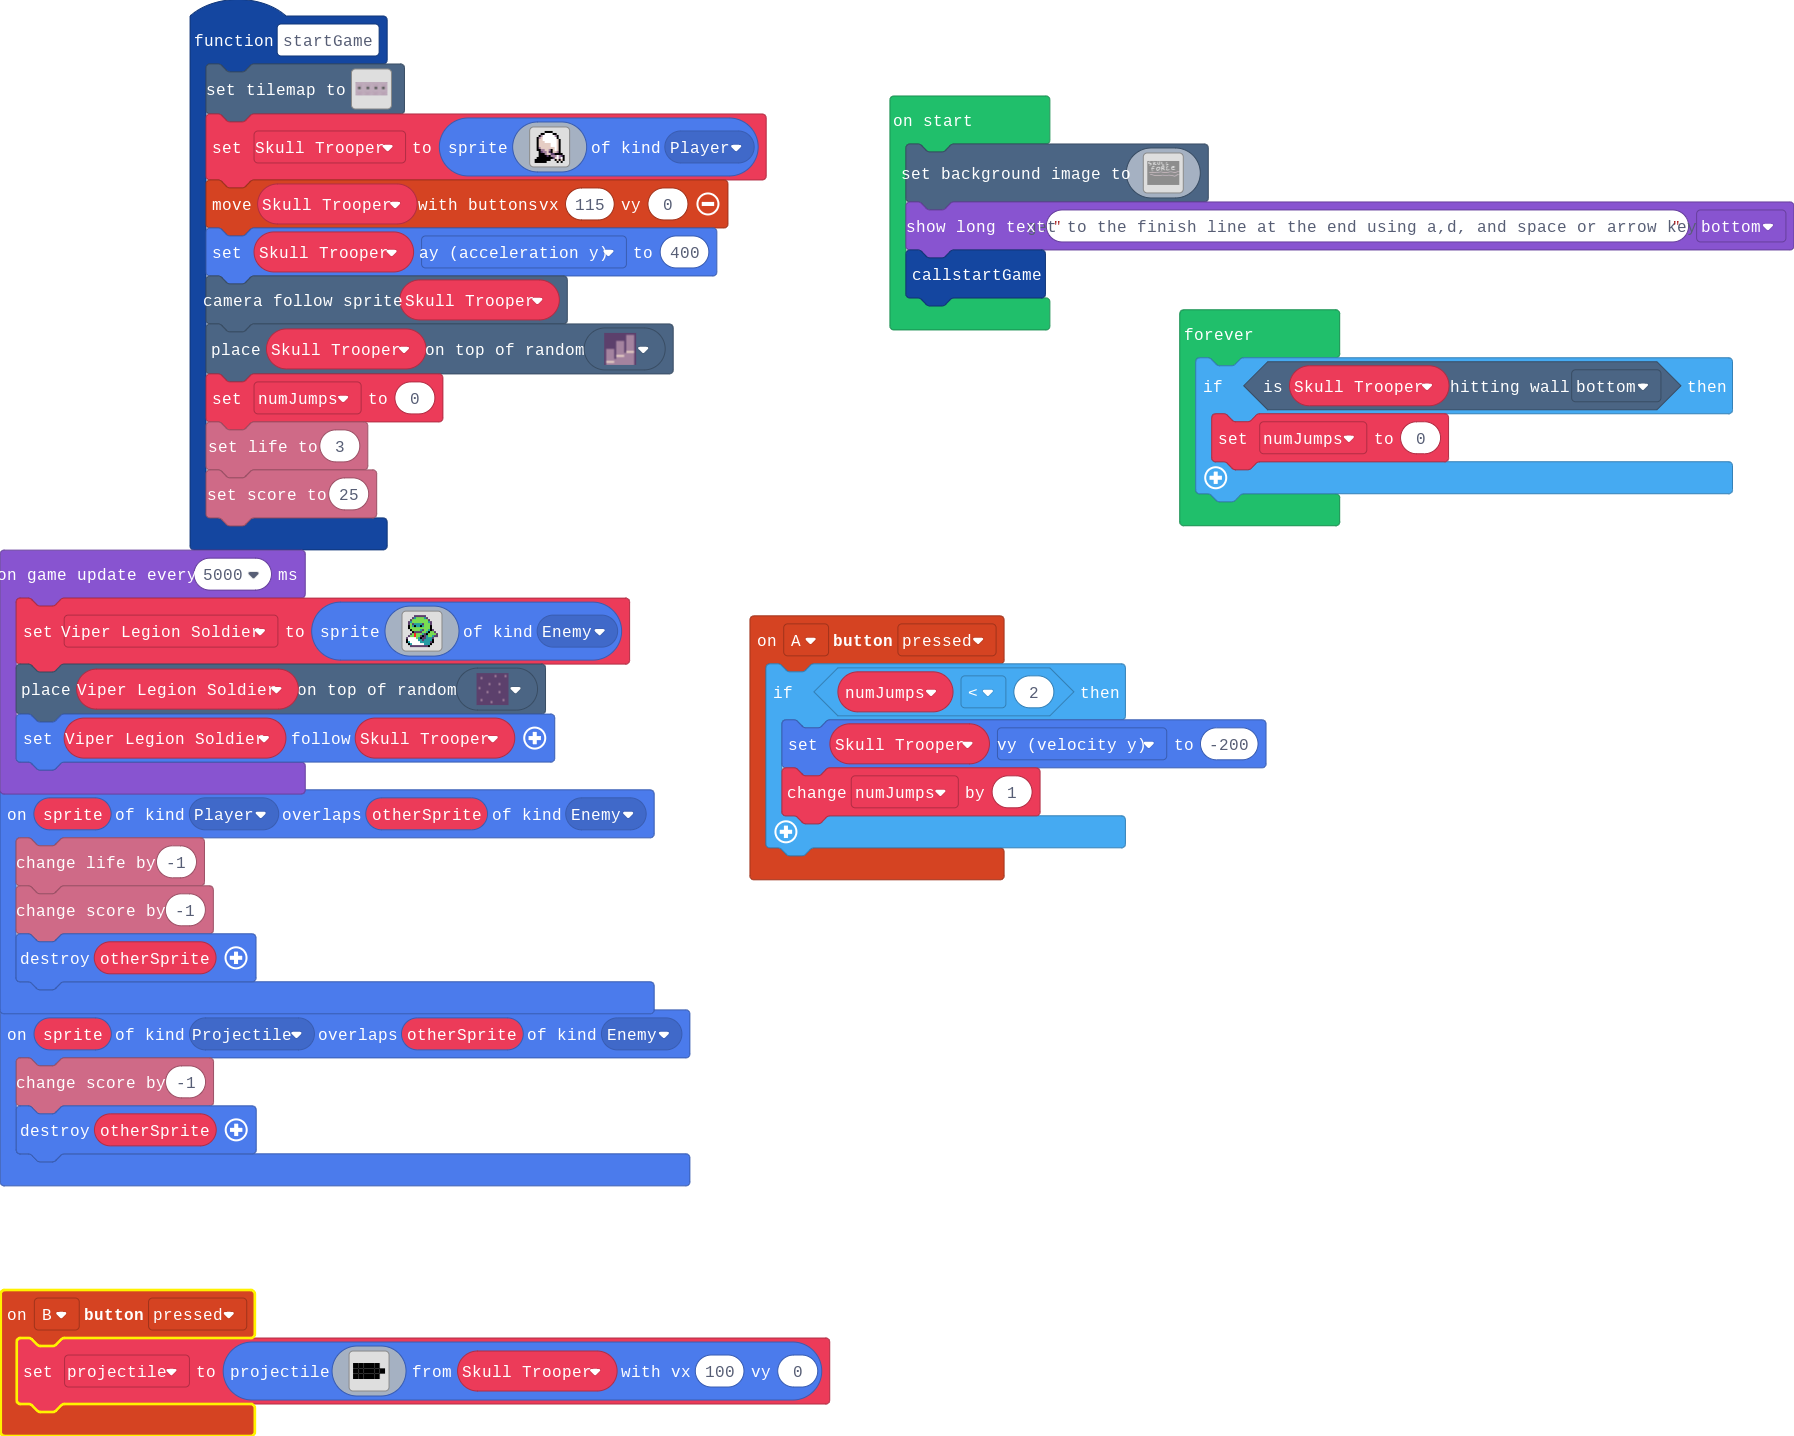
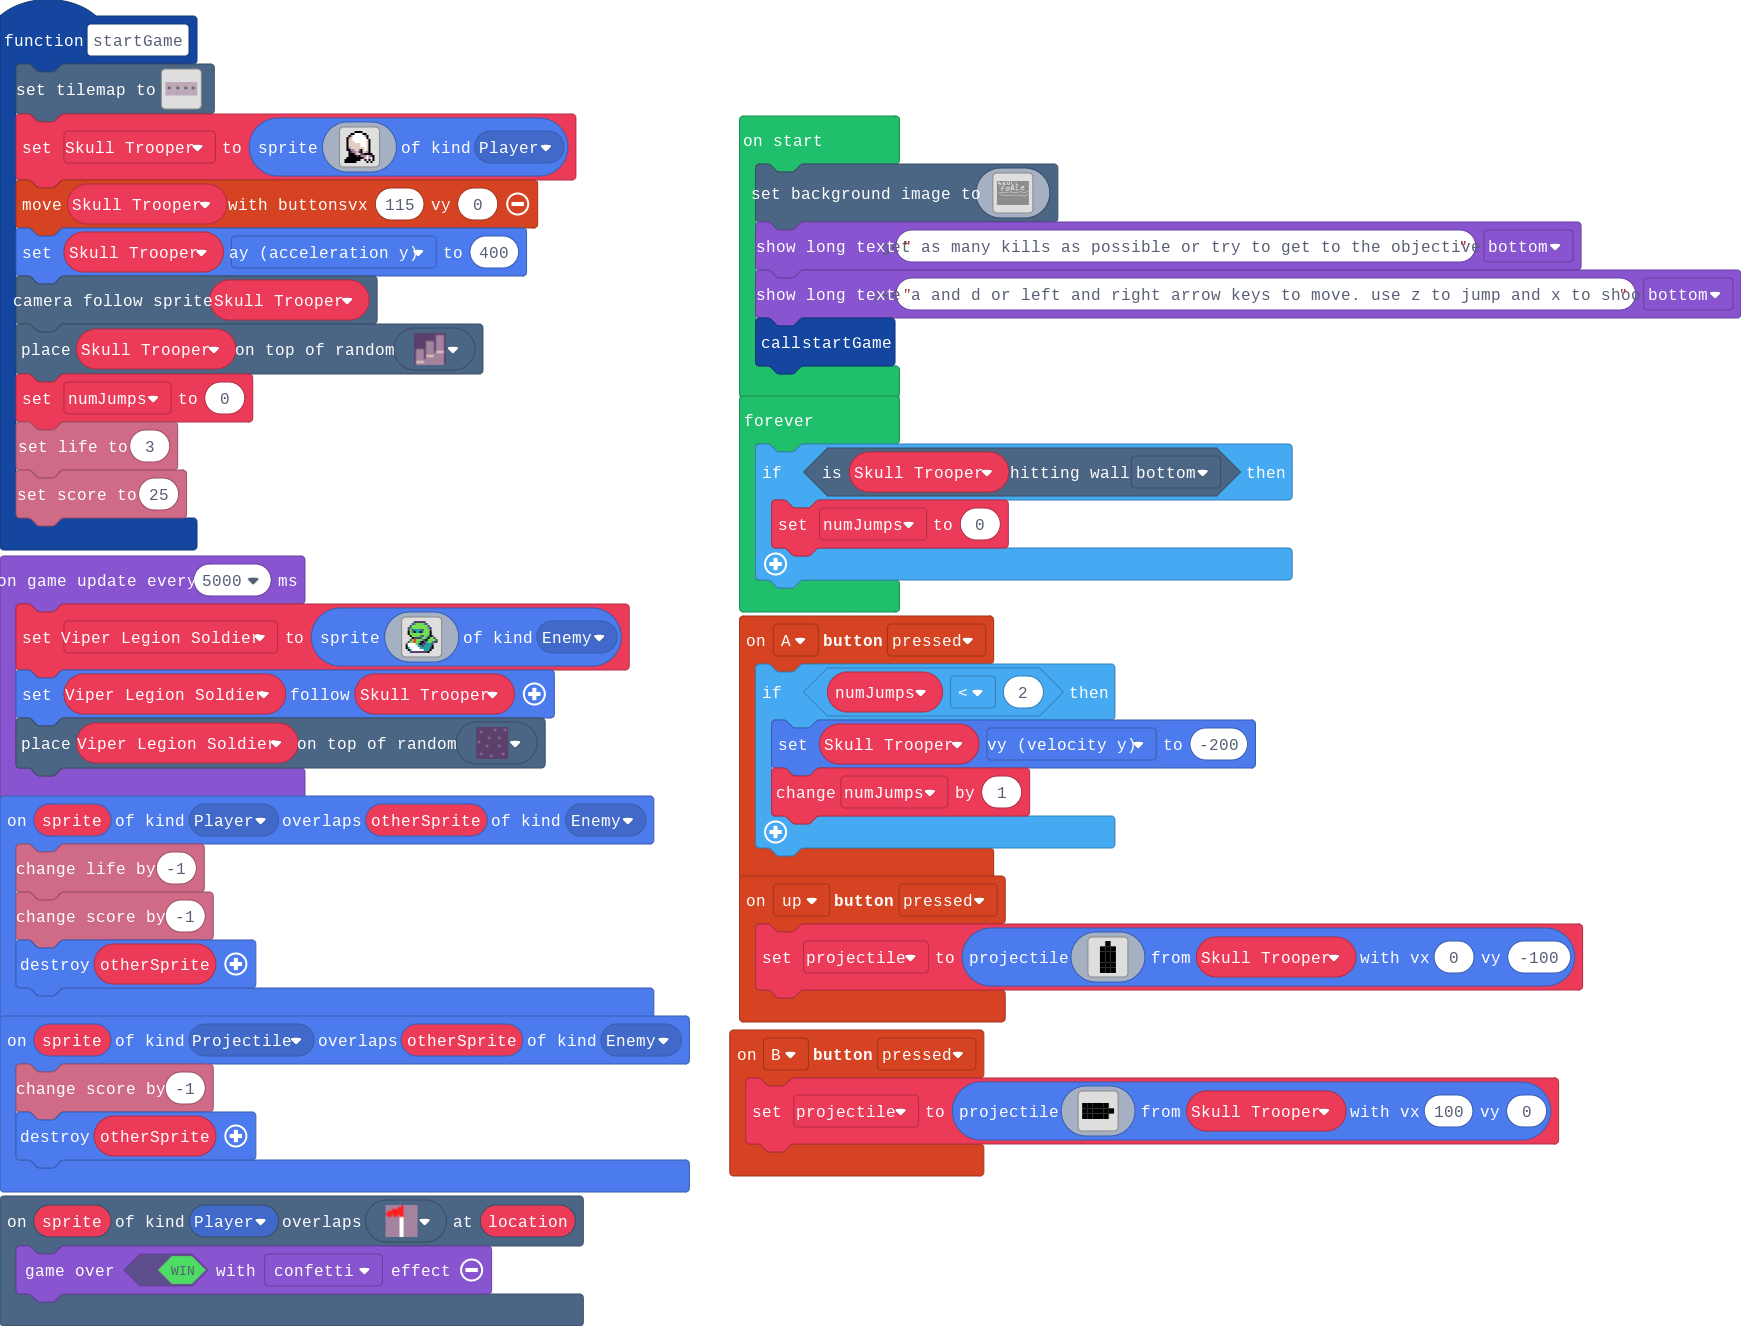
Update main.blocks, main.ts

diff --git a/main.ts b/main.ts
@@ -113,10 +113,51 @@ f f f 1 f f f f f f f f 1 f f f
 f f f f f f f f f f f f f f f f 
 f f f f f f f f f f f f f f f f 
 `
+    //% blockIdentity=images._tile
+    export const tile8 = img`
+. . . . . . . 2 2 . . . . . . . 
+. . . . . 2 2 2 2 . . . . . . . 
+. . . . 2 2 2 2 2 . . . . . . . 
+. . 2 2 2 2 2 2 2 . . . . . . . 
+. 2 2 2 2 2 2 2 2 . . . . . . . 
+2 2 . . 2 . . 1 1 . . . . . . . 
+. . . . . . . 1 1 . . . . . . . 
+. . . . . . . 1 1 . . . . . . . 
+. . . . . . . 1 1 . . . . . . . 
+. . . . . . . 1 1 . . . . . . . 
+. . . . . . . 1 1 . . . . . . . 
+. . . . . . . 1 1 . . . . . . . 
+. . . . . . . 1 1 . . . . . . . 
+. . . . . . . 1 1 . . . . . . . 
+. . . . . . . 1 1 . . . . . . . 
+. . . . . . . 1 1 . . . . . . . 
+`
+    //% blockIdentity=images._tile
+    export const tile9 = img`
+b b b b b b b b 2 b b b b b b b 
+b b b b b b 2 2 2 b b b b b b b 
+b b b 2 2 2 2 2 2 b b b b b b b 
+b 2 2 2 2 2 2 2 2 b b b b b b b 
+2 2 2 2 2 2 2 2 2 b b b b b b b 
+b 2 2 b 2 2 b 2 2 b b b b b b b 
+b b b b b b b 1 1 b b b b b b b 
+b b b b b b b 1 1 b b b b b b b 
+b b b b b b b 1 1 b b b b b b b 
+b b b b b b b 1 1 b b b b b b b 
+b b b b b b b 1 1 b b b b b b b 
+b b b b b b b 1 1 b b b b b b b 
+b b b b b b b 1 1 b b b b b b b 
+b b b b b b b 1 1 b b b b b b b 
+b b b b b b b 1 1 b b b b b b b 
+b b b b b b b 1 1 b b b b b b b 
+`
 }
+scene.onOverlapTile(SpriteKind.Player, myTiles.tile9, function (sprite, location) {
+    game.over(true, effects.confetti)
+})
 function startGame () {
     tiles.setTilemap(tiles.createTilemap(
[2 lines of base64/hex data omitted]
             img`
 2 2 2 2 2 2 2 2 2 2 2 2 2 2 2 2 2 2 2 2 2 2 2 2 2 2 2 2 2 2 2 2 2 2 2 2 2 2 2 2 2 2 2 2 2 2 2 2 2 2 2 2 2 2 2 2 2 2 2 2 
 2 . . . . . . . . . . . . . . . . . . . . . . . . . . . . . . . . . . . . . . . . . . . . . . . . . . . . . . . . . . 2 
@@ -144,7 +185,7 @@ function startGame () {
 2 . . . . . . . . . . . . . . . . . . . . . . . . . . . . . . . . . . . . . . . . . . . . . . . . . . . . . . . . . . 2 
 2 2 2 2 2 2 2 2 2 2 2 2 2 2 2 2 2 2 2 2 2 2 2 2 2 2 2 2 2 2 2 2 2 2 2 2 2 2 2 2 2 2 2 2 2 2 2 2 2 2 2 2 2 2 2 2 2 2 2 2 
 `,
-            [myTiles.tile0,sprites.castle.tilePath1,sprites.castle.tilePath5,sprites.castle.tilePath2,sprites.castle.tilePath7,sprites.castle.tilePath3,sprites.castle.tilePath4,sprites.castle.tilePath6,sprites.builtin.forestTiles0,sprites.castle.tileGrass1,sprites.castle.tileGrass2,sprites.castle.tileDarkGrass2,sprites.castle.tileDarkGrass3,sprites.castle.tileDarkGrass1,sprites.builtin.forestTiles5,sprites.builtin.forestTiles2,sprites.builtin.forestTiles28,sprites.builtin.forestTiles20,sprites.castle.tileGrass3,myTiles.tile2,sprites.dungeon.stairLarge,myTiles.tile3,sprites.dungeon.floorDark2,sprites.dungeon.floorDark0,myTiles.tile5,myTiles.tile6,myTiles.tile7,sprites.dungeon.darkGroundCenter],
+            [myTiles.tile0,sprites.castle.tilePath1,sprites.castle.tilePath5,sprites.castle.tilePath2,sprites.castle.tilePath7,sprites.castle.tilePath3,sprites.castle.tilePath4,sprites.castle.tilePath6,sprites.builtin.forestTiles0,sprites.castle.tileGrass1,sprites.castle.tileGrass2,sprites.castle.tileDarkGrass2,sprites.castle.tileDarkGrass3,sprites.castle.tileDarkGrass1,sprites.builtin.forestTiles5,sprites.builtin.forestTiles2,sprites.builtin.forestTiles28,sprites.builtin.forestTiles20,sprites.castle.tileGrass3,myTiles.tile2,sprites.dungeon.stairLarge,myTiles.tile3,sprites.dungeon.floorDark2,sprites.dungeon.floorDark0,myTiles.tile5,myTiles.tile6,myTiles.tile7,sprites.dungeon.darkGroundCenter,myTiles.tile8,myTiles.tile9],
             TileScale.Sixteen
         ))
     Skull_Trooper = sprites.create(img`
@@ -194,6 +235,16 @@ sprites.onOverlap(SpriteKind.Player, SpriteKind.Enemy, function (sprite, otherSp
     info.changeLifeBy(-1)
     info.changeScoreBy(-1)
     otherSprite.destroy()
+})
+controller.up.onEvent(ControllerButtonEvent.Pressed, function () {
+    projectile = sprites.createProjectileFromSprite(img`
+. f . 
+f f f 
+f f f 
+f f f 
+f f f 
+f f f 
+`, Skull_Trooper, 0, -100)
 })
 let Viper_Legion_Soldier: Sprite = null
 let projectile: Sprite = null
@@ -321,7 +372,8 @@ f f f f f f f f f f f f f f f f f f f f f f f f f f f f f f f f f f f f f f f f 
 f f f f f f f f f f f f f f f f f f f f f f f f f f f f f f f f f f f f f f f f f f f f f f f f f f f f f f f f f f f f f f f f f f f f f f f f f f f f f f f f f f f f f f f f f f f f f f f f f f f f f f f f f f f f f f f f f f f f f f f f f f f f f f f f f f f f f f f f f f f f f f f f f f f f f f f f f f f f f f f f 
 f f f f f f f f f f f f f f f f f f f f f f f f f f f f f f f f f f f f f f f f f f f f f f f f f f f f f f f f f f f f f f f f f f f f f f f f f f f f f f f f f f f f f f f f f f f f f f f f f f f f f f f f f f f f f f f f f f f f f f f f f f f f f f f f f f f f f f f f f f f f f f f f f f f f f f f f f f f f f f f f 
 `)
-game.showLongText("get to the finish line at the end using a,d, and space or arrow keys", DialogLayout.Bottom)
+game.showLongText("get as many kills as possible or try to get to the objective.", DialogLayout.Bottom)
+game.showLongText("use a and d or left and right arrow keys to move. use z to jump and x to shoot.", DialogLayout.Bottom)
 startGame()
 game.onUpdateInterval(5000, function () {
     Viper_Legion_Soldier = sprites.create(img`
@@ -342,8 +394,8 @@ f 6 1 1 1 1 1 6 6 6 6 6 c f . .
 . f 6 1 1 1 1 1 1 6 6 6 f . . . 
 . . c c c c c c c c c f . . . . 
 `, SpriteKind.Enemy)
-    tiles.placeOnRandomTile(Viper_Legion_Soldier, sprites.dungeon.darkGroundCenter)
     Viper_Legion_Soldier.follow(Skull_Trooper)
+    tiles.placeOnRandomTile(Viper_Legion_Soldier, sprites.dungeon.darkGroundCenter)
 })
 forever(function () {
     if (Skull_Trooper.isHittingTile(CollisionDirection.Bottom)) {
